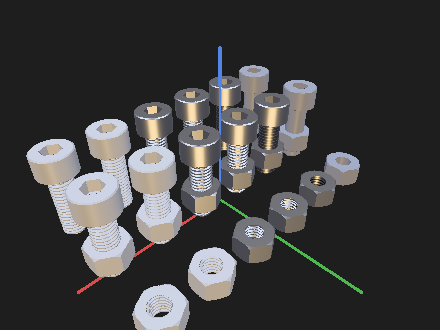
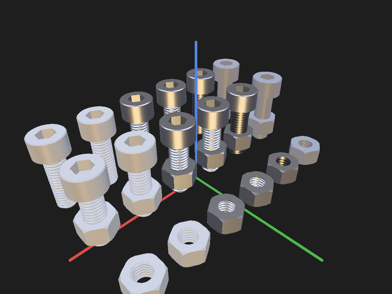
docs(readme): resize showcase thumbnails to 196px (392x294) to fit 4 across on GitHub

diff --git a/README.md b/README.md
@@ -4,15 +4,15 @@
 [![Wheels](https://github.com/Gradient-Control-Laboratories/omega-core/actions/workflows/wheels.yml/badge.svg?branch=main)](https://github.com/Gradient-Control-Laboratories/omega-core/actions/workflows/wheels.yml)
 
 <p align="center">
-  <a href="doc/assets/showcase/glass.png"><img src="doc/assets/showcase/glass_thumb.png" width="220" alt="Glass"></a>
-  <a href="doc/assets/showcase/fastener_cosmetics.png"><img src="doc/assets/showcase/fastener_cosmetics_thumb.png" width="220" alt="Fastener Cosmetics"></a>
-  <a href="doc/assets/showcase/detail_ladder.png"><img src="doc/assets/showcase/detail_ladder_thumb.png" width="220" alt="Detail Ladder"></a>
-  <a href="doc/assets/showcase/corexy_printer.png"><img src="doc/assets/showcase/corexy_printer_thumb.png" width="220" alt="CoreXY Printer"></a>
+  <a href="doc/assets/showcase/glass.png"><img src="doc/assets/showcase/glass_thumb.png" width="196" alt="Glass"></a>
+  <a href="doc/assets/showcase/fastener_cosmetics.png"><img src="doc/assets/showcase/fastener_cosmetics_thumb.png" width="196" alt="Fastener Cosmetics"></a>
+  <a href="doc/assets/showcase/detail_ladder.png"><img src="doc/assets/showcase/detail_ladder_thumb.png" width="196" alt="Detail Ladder"></a>
+  <a href="doc/assets/showcase/corexy_printer.png"><img src="doc/assets/showcase/corexy_printer_thumb.png" width="196" alt="CoreXY Printer"></a>
   <br>
-  <a href="doc/assets/showcase/material_coated.png"><img src="doc/assets/showcase/material_coated_thumb.png" width="220" alt="Material Coated"></a>
-  <a href="doc/assets/showcase/fastener_matrix.png"><img src="doc/assets/showcase/fastener_matrix_thumb.png" width="220" alt="Fastener Matrix"></a>
-  <a href="doc/assets/showcase/beam_lattice_gallery.png"><img src="doc/assets/showcase/beam_lattice_gallery_thumb.png" width="220" alt="Beam Lattice"></a>
-  <a href="doc/assets/showcase/gyroid.png"><img src="doc/assets/showcase/gyroid_thumb.png" width="220" alt="Gyroid"></a>
+  <a href="doc/assets/showcase/material_coated.png"><img src="doc/assets/showcase/material_coated_thumb.png" width="196" alt="Material Coated"></a>
+  <a href="doc/assets/showcase/fastener_matrix.png"><img src="doc/assets/showcase/fastener_matrix_thumb.png" width="196" alt="Fastener Matrix"></a>
+  <a href="doc/assets/showcase/beam_lattice_gallery.png"><img src="doc/assets/showcase/beam_lattice_gallery_thumb.png" width="196" alt="Beam Lattice"></a>
+  <a href="doc/assets/showcase/gyroid.png"><img src="doc/assets/showcase/gyroid_thumb.png" width="196" alt="Gyroid"></a>
 </p>
 
 `omega-core` is the standalone Go SDK for the Geometric Shape Language (GSL). It provides
